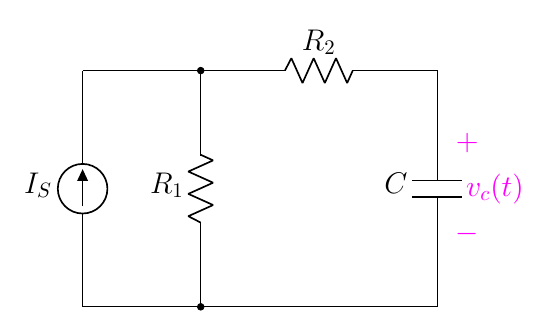
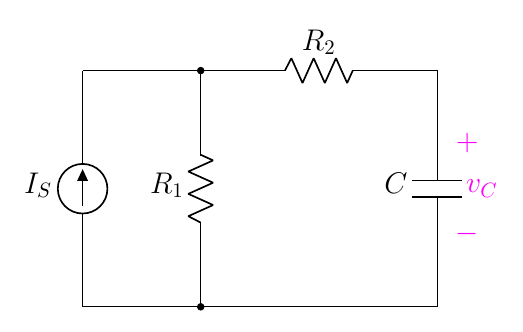
7.46

diff --git a/2.4 Driven RC/7.5 Driven RC/7.46(new).tex b/2.4 Driven RC/7.5 Driven RC/7.46(new).tex
@@ -26,6 +26,6 @@
     %%% find %%%
     % \node at(7.2,1.5) []{$t=0$};
     \draw[magenta](6.2,3)  
-        to[open,v^=$v_c(t)$] ++(0,-2);
+        to[open,v^=$v_C$] ++(0,-2);
 \end{circuitikz}
 \end{document}
